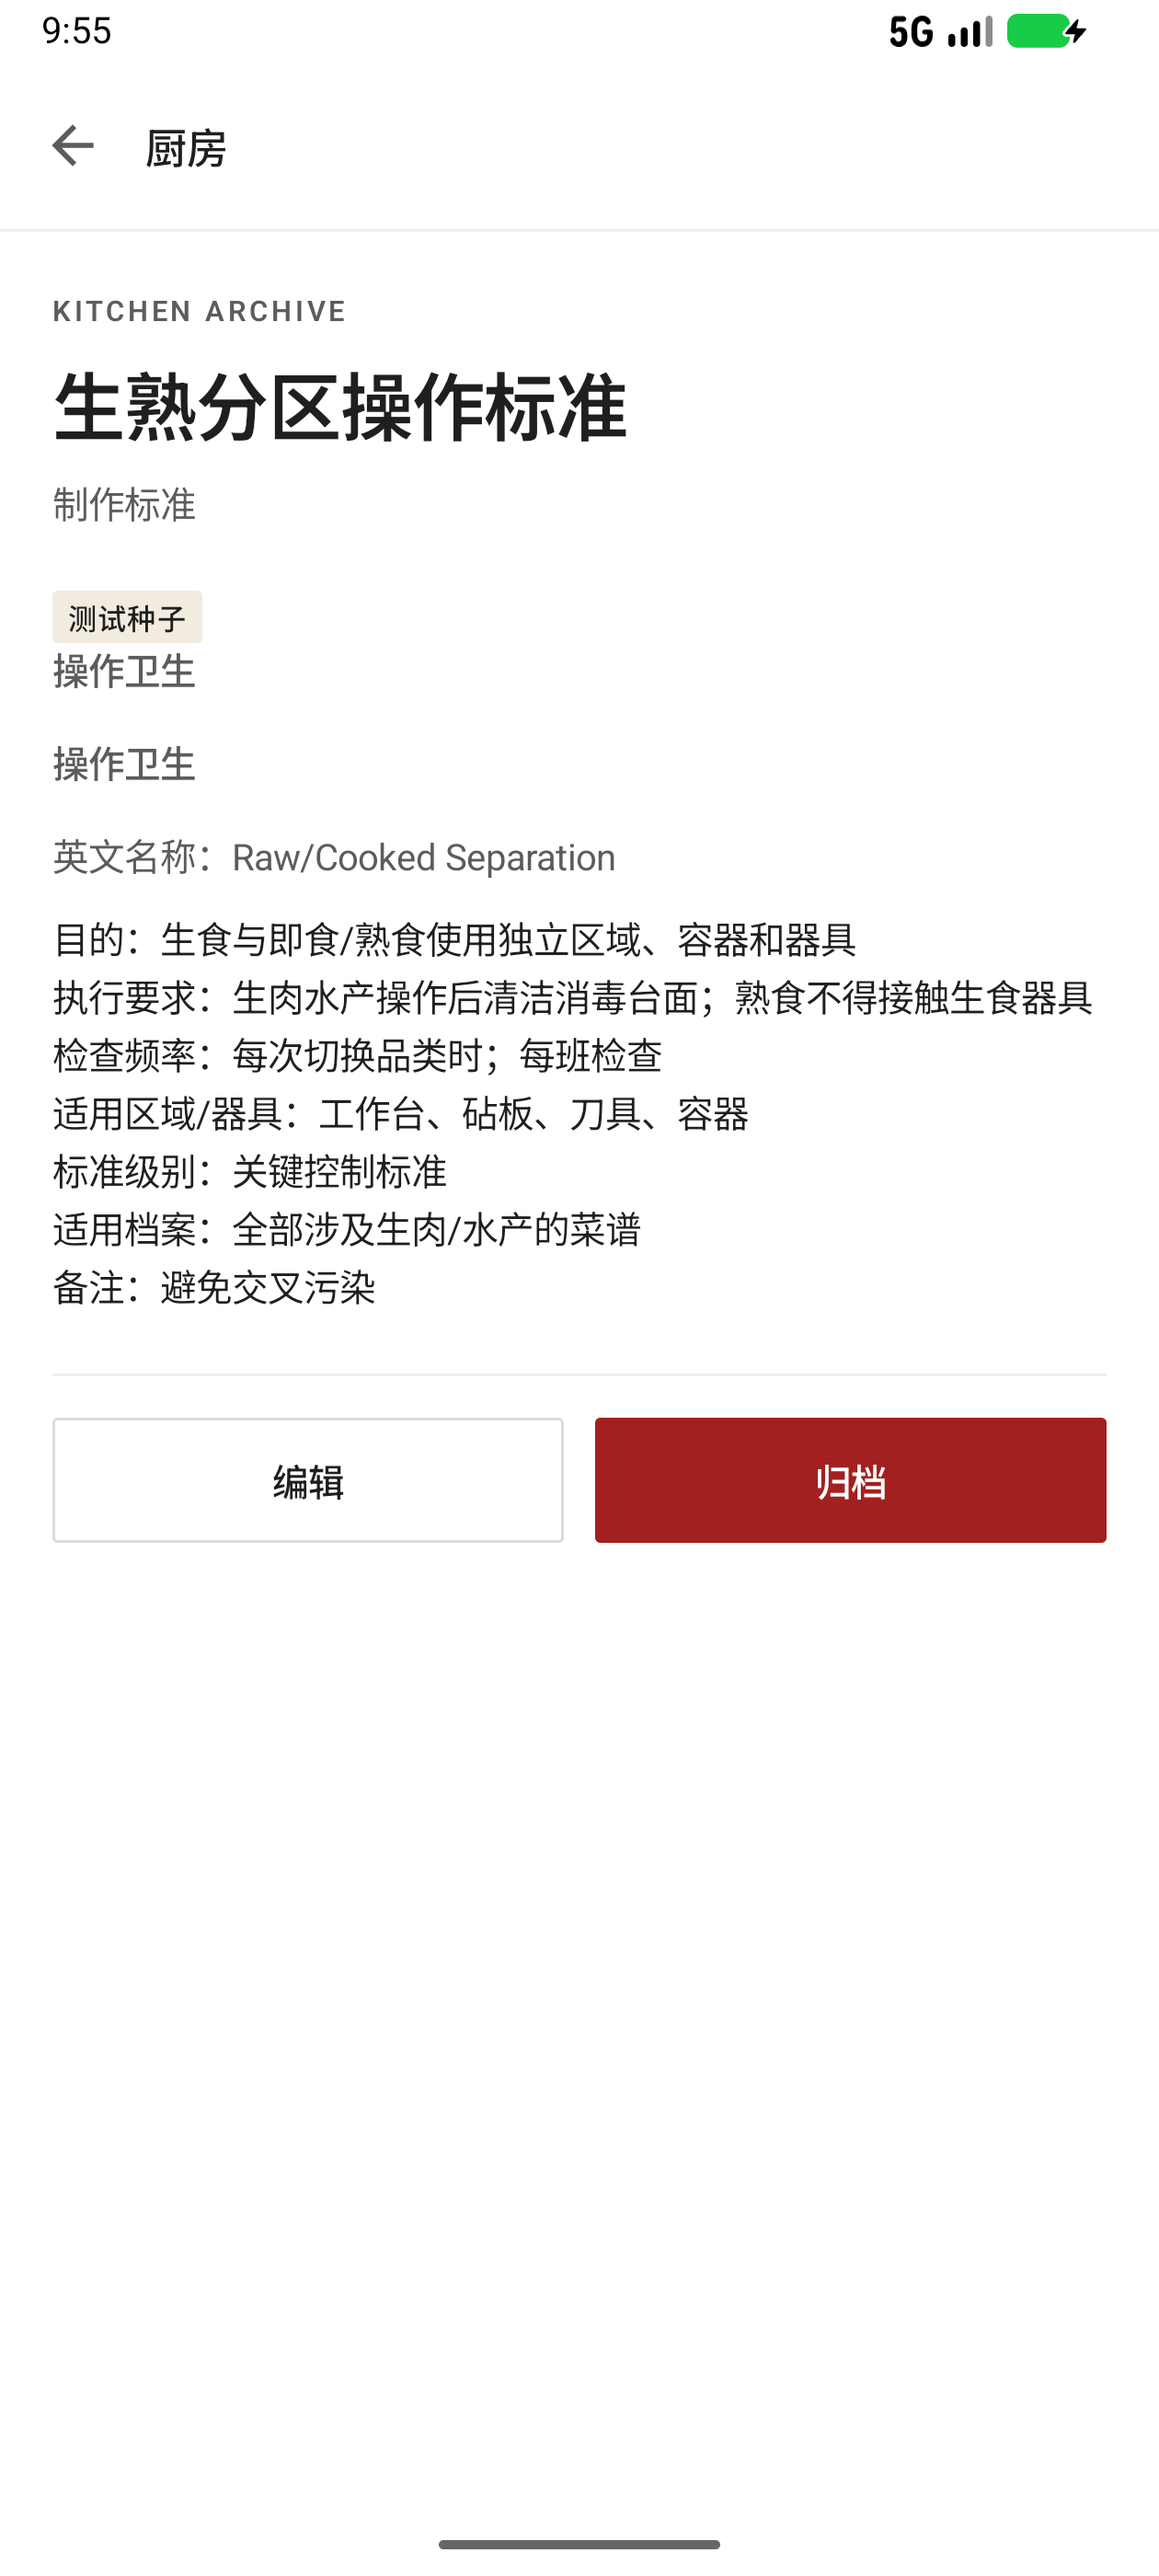
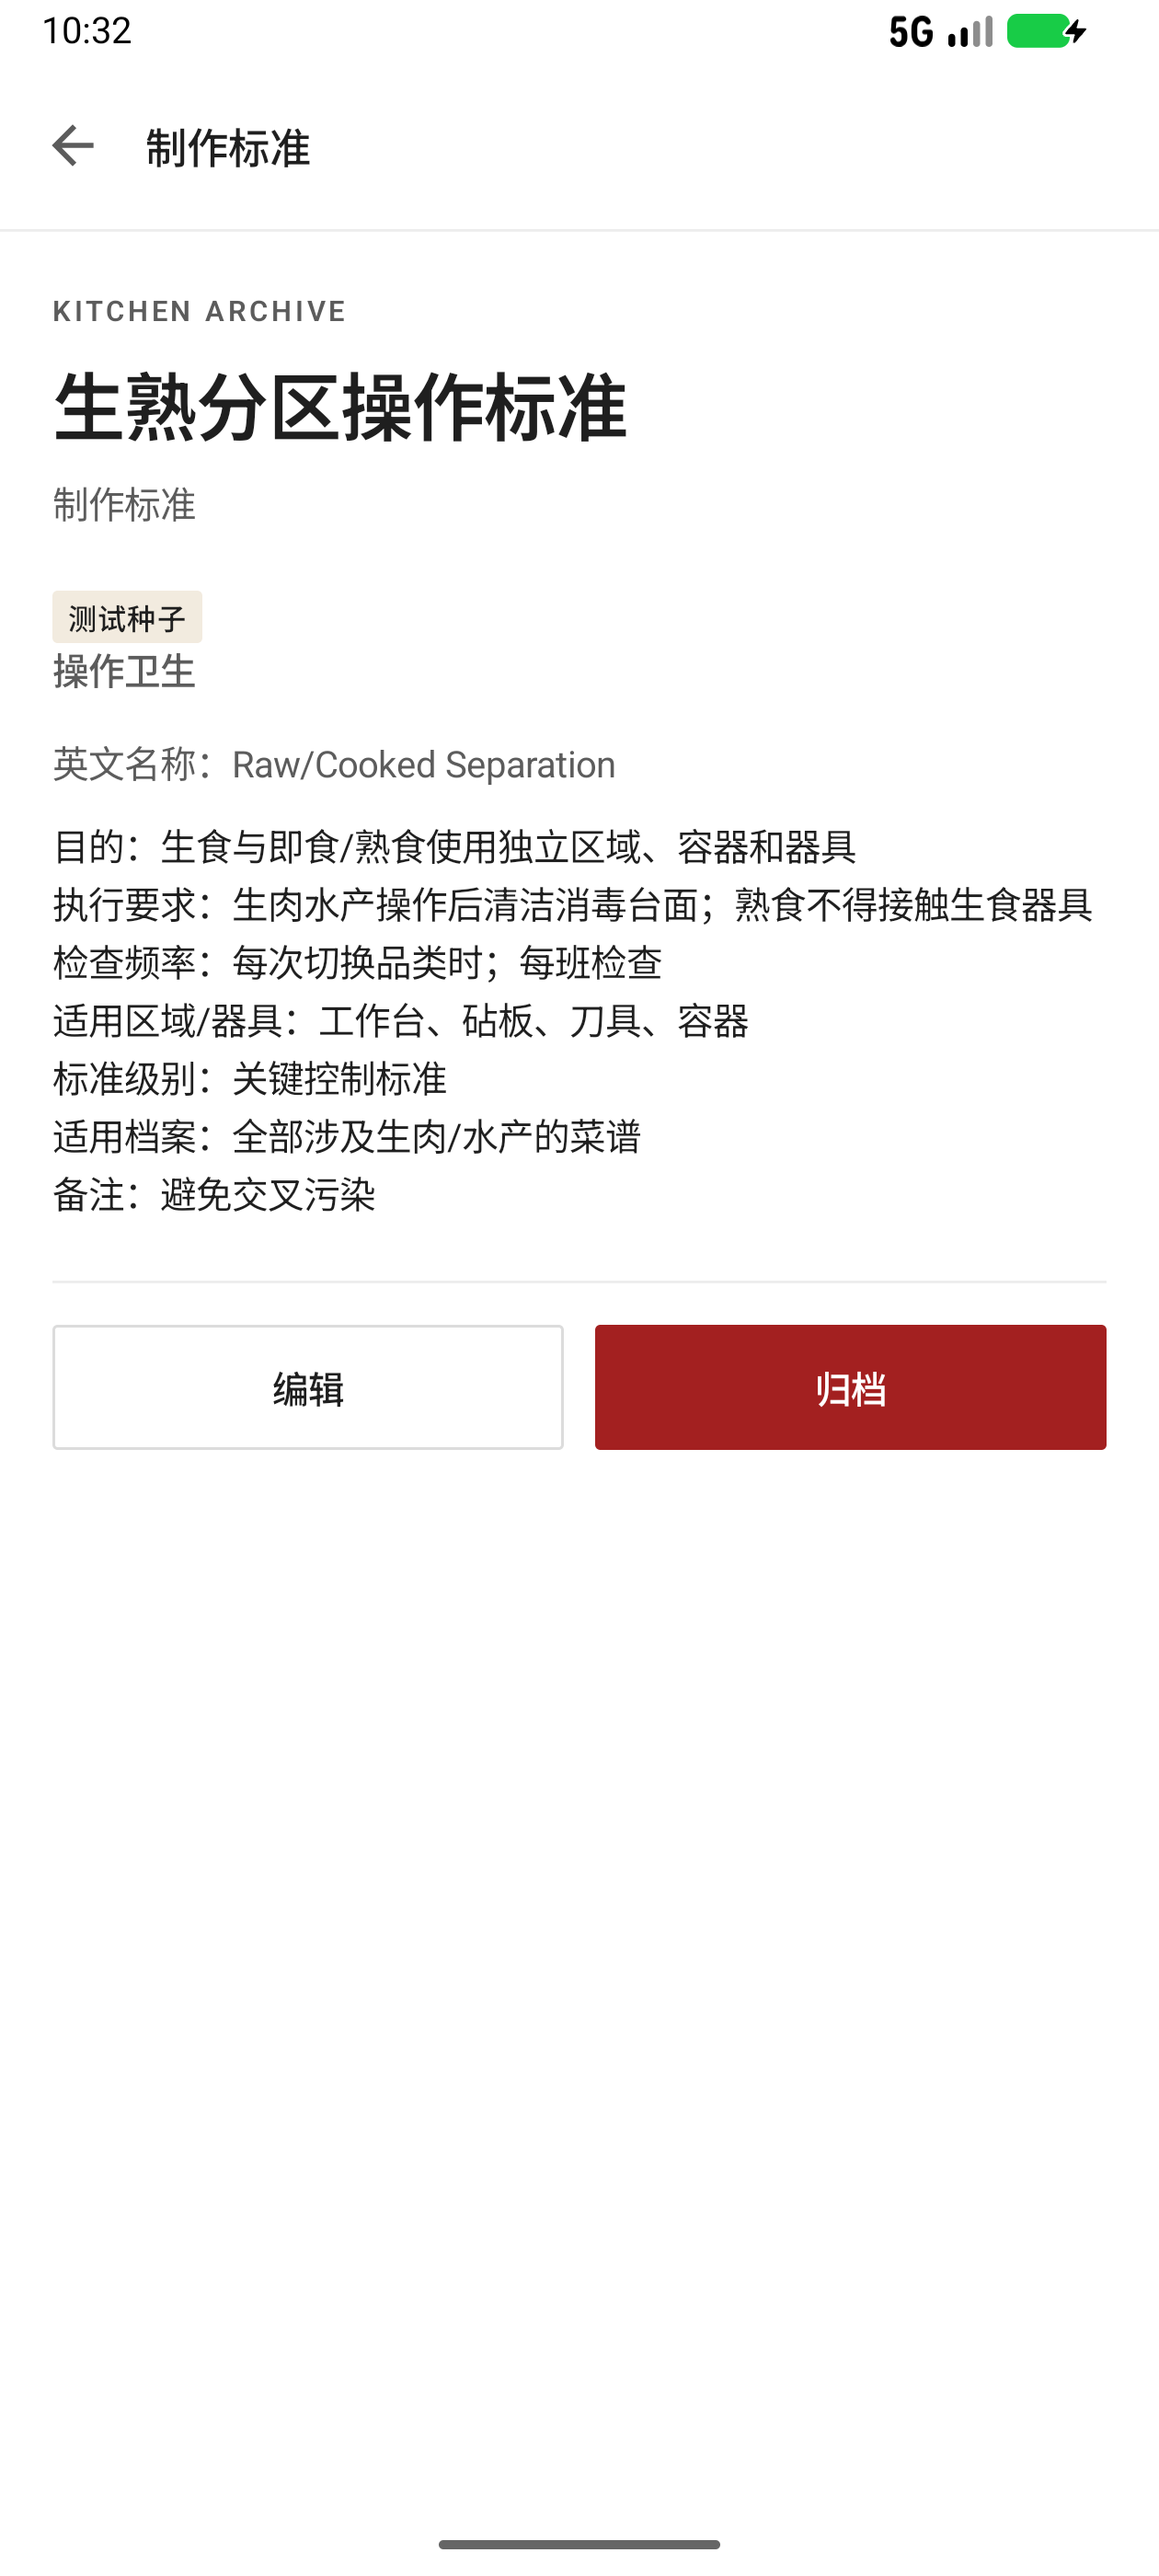
docs(archive): finalize APK hash and verification screenshots

Changed region(s): [[0.031, 0.2796, 0.9595, 0.6214], [0.1238, 0.0311, 0.2786, 0.0621], [0.031, 0.0, 0.0929, 0.0311]]

diff --git a/app/src/main/java/com/culinary/kitchen/archive/KitchenReferenceScreens.kt b/app/src/main/java/com/culinary/kitchen/archive/KitchenReferenceScreens.kt
@@ -301,7 +301,7 @@ internal fun KitchenReferenceDetailScreen(
                         )
                     }
                 }
-                if (state.categoryPath.isNotEmpty()) {
+                if (state.categoryPath.size > 1) {
                     Text(
                         text = state.categoryPath.joinToString(" / "),
                         style = MaterialTheme.typography.labelLarge,
@@ -309,7 +309,7 @@ internal fun KitchenReferenceDetailScreen(
                     )
                     Spacer(modifier = Modifier.height(CulinarySpacing.md))
                 }
-                if (state.categoryPath.isEmpty()) {
+                if (state.categoryPath.size <= 1) {
                     record.category?.takeIf { it.isNotBlank() }?.let { category ->
                         Text(
                             text = category,

diff --git a/docs/24-archive-unified/REPORT.md b/docs/24-archive-unified/REPORT.md
@@ -238,10 +238,10 @@ dist/ARCHIVE-UNIFIED-001/MISEBASE-1.0.5-archive-unified-release.apk
 SHA-256：
 
 ```text
[2 lines of base64/hex data omitted]
 ```
 
-大小：24,697,503 bytes
+大小：24,697,497 bytes
 
 安装信息：
 
